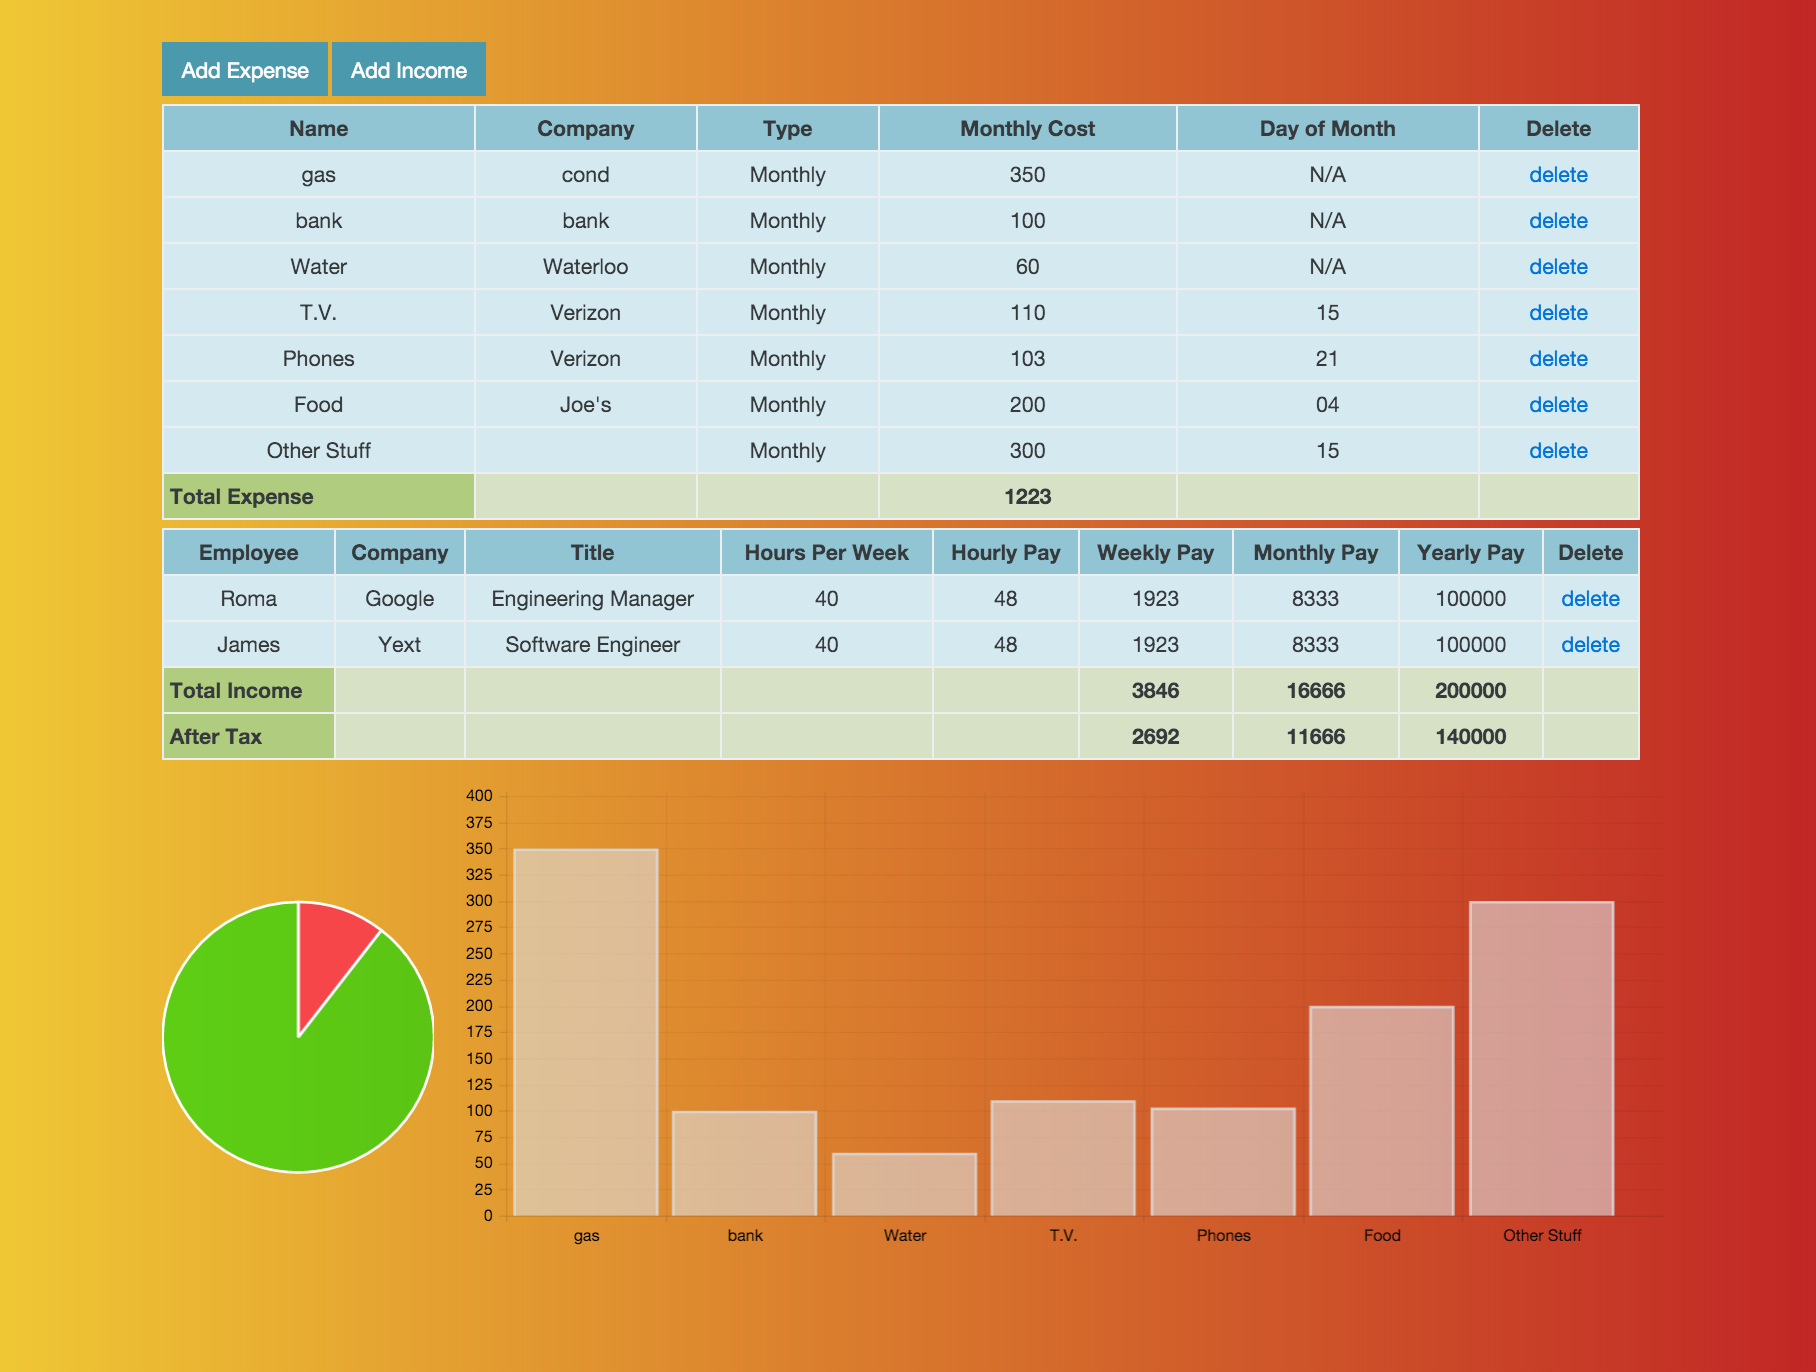
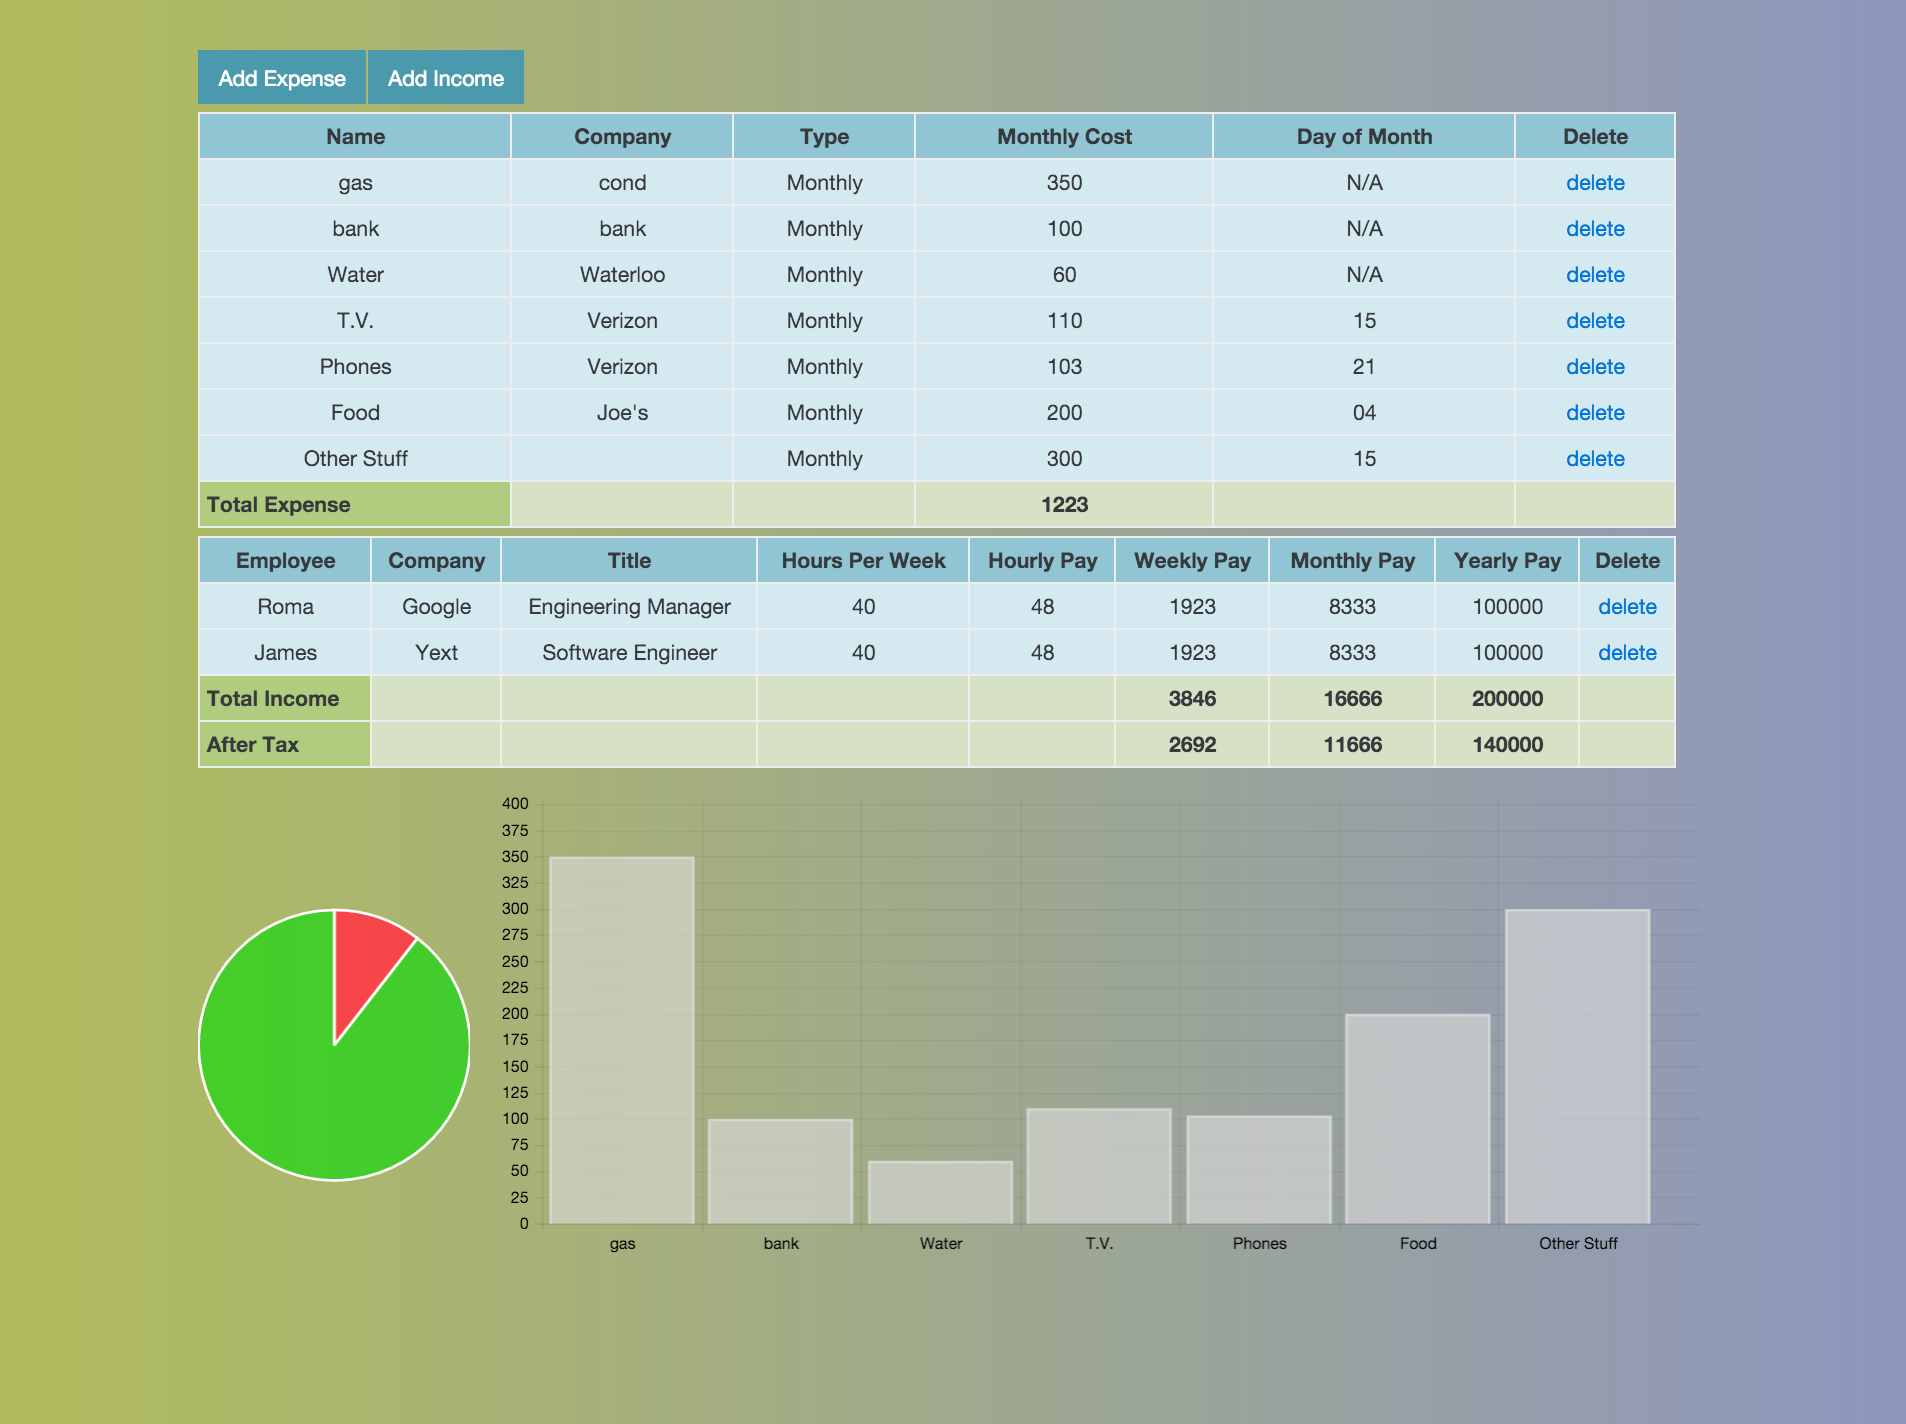
updated gradient

diff --git a/public/css/main.css b/public/css/main.css
@@ -180,7 +180,7 @@ tbody tr.odd td{
 
 /* the following body is made by @_ighosh */
 body{
-    background-image: linear-gradient(to left, rgb(192, 36, 37), rgb(240, 203, 53));
+    background-image: linear-gradient(to left, rgb(129, 136, 227), rgb(190, 203, 53));
 }
 
 #wrapper{
